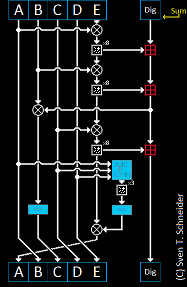
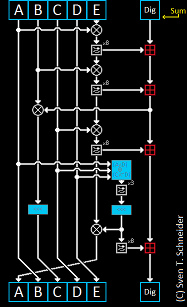
Advanced the SCMHA

Changed region(s): [[0.0267, 0.0, 1.0, 1.0], [0.9358, 0.669, 0.9893, 1.0]]

diff --git a/src/crypto/SCMHA.java b/src/crypto/SCMHA.java
@@ -20,7 +20,7 @@ public class SCMHA {
 	 * 
 	 * The basic principle of destroying the Pre-Image is based on John Horton Conway's "Game of Life" 
 	 * @author Sven T. Schneider
-	 * @version 0.2.1
+	 * @version 0.3
 	 */
 	
 	public final int size;
@@ -48,10 +48,13 @@ public class SCMHA {
 	//Counts the times GameOfLife was called
 	private int count_gol;
 	
+	//How many times GOL is played per Round
+	private final int play_gol_per_round;
+	
 	
 	//The digesting array, XORed with the bit-Arrays to produce the hash
 	private byte[] digest;
-	private final int digestBlockSize;
+	private final int digestSize;
 	
 	//digest() was called, the hash is final
 	private boolean isFinal;
@@ -66,7 +69,7 @@ public class SCMHA {
 	 * The getState()-Method return the current state of the Hash
 	 * During operation you can call reset() to reset the Algorithm to the start!
 	 * To finish operation, call digest(). This runs the cycle one final time and adds the destructors.
-	 * After that is done, the final Hash is given to you (or can be retrived by calling getstate()).
+	 * After that is done, the final Hash is given to you (or can be retrieved by calling getstate()).
 	 * @param s Bit-length of the Hash, use the Provided Variables:
 	 * 		SCMHA_512, SCMHA_768, SCMHA_1024
 	 * @throws NoSuchAlgorithmException if the choosen bit-Size is not compatible
@@ -82,7 +85,9 @@ public class SCMHA {
 		}else{
 			throw new NoSuchAlgorithmException("This algorithm dosn't exist!");
 		}
-		digestBlockSize = size/24;
+		digestSize = size/8;
+		
+		play_gol_per_round = size/16;
 		
 		reset();
 	}
@@ -97,9 +102,7 @@ public class SCMHA {
 		
 		u = new boolean[q][q];
 		
-		addToMainField(Random.generateSeed(256, 10), e);
-		
-		digest = new byte[size/8];
+		digest = new byte[digestSize];
 	}
 	
 	/**
@@ -124,6 +127,8 @@ public class SCMHA {
 			
 			//Pad Message
 			bToUse = paddIncomingMessage(bToUse);
+			
+			addToMainField(bToUse, e);
 			
 			//Perform 10 Rounds
 			for (int i = 0; i < 10; i++) {
@@ -163,29 +168,35 @@ public class SCMHA {
 		doWait();
 		xOrArrays(e, a);
 		count_posInRound = 2;
-		//Play Game of Life 8.times
-		playGOLwithE(8);
+		//Play Game of Life
+		playGOLwithE(play_gol_per_round/4);
 		
 		//2nd Step: XOR E with B
 		count_posInRound = 3;
 		doWait();
 		xOrArrays(e, b);
 		count_posInRound = 4;
-		//Play Game of Life 8.times
-		playGOLwithE(8);
+		//Play Game of Life
+		playGOLwithE(play_gol_per_round/4);
 		
 		//3rd XOR current Digesting-Array-Part with B
 		count_posInRound = 5;
 		doWait();
-		//TODO
+		//Create an Array to add...
+		byte[] digRMA = new byte[q*q/8+1];
+		for (int i = 0; i < digRMA.length; i++) {
+			digRMA[i] = digest[position_digest(-i-2)];
+		}
+		//And add it to B
+		addToMainField(digRMA, b);
 		
 		//4th Step: XOR E with C
 		count_posInRound = 6;
 		doWait();
 		xOrArrays(e, c);
 		count_posInRound = 7;
-		//Play Game of Life 8.times
-		playGOLwithE(8);
+		//Play Game of Life
+		playGOLwithE(play_gol_per_round/4);
 		
 		//5th Step: generate U
 		count_posInRound = 8;
@@ -209,10 +220,18 @@ public class SCMHA {
 		doWait();
 		xOrArrays(e, u);
 		
-		//9th Step: Fill Digesting-Array with U ---TODO add to flowchat
+		//9th Step: Fill Digesting-Array with U
 		count_posInRound = 12;
-		doWait();
-		//TODO
+		//Same as playGOLwithE() but with u
+		for (int i = 0; i < play_gol_per_round/4; i++) {
+			doWait();
+			
+			u = playOneRound(canDoConway(u), u);
+			
+			addLineToDigest(u);
+			
+			count_gol++;
+		}
 		
 		//10th Step: Move Arrays
 		count_posInRound = 13;
@@ -235,11 +254,48 @@ public class SCMHA {
 			e = playOneRound(canDoConway(e), e);
 			
 			//Adds psudo random Line to Digesting-Array
-			//TODO
+			addLineToDigest(e);
 			
 			//Increment counter
 			count_gol++;
 		}
+	}
+	
+	/**
+	 * Takes a Line of the Array and adds it to the digesting array (mod 0xffff).
+	 * This is the "red +" operator in the Flowchart
+	 * @param b
+	 */
+	private void addLineToDigest(boolean[][] b){
+		int t = bitLine(position_ArrayToDigestX(), position_ArrayToDigestY(), b);
+		int u = ((digest[position_digest(0)] & 0xff) << 8) | ((digest[position_digest(1)] & 0xff));
+		
+		t = (t+u)%0xffff;
+		
+		digest[position_digest(0)] = (byte)(t & 0xff);
+		digest[position_digest(1)] = (byte)((t >> 8) & 0xff);
+	}
+
+	////////////////////////////////////////////////////////////////////////////////////////////
+	//Position Methods
+	////////////////////////////////////////////////////////////////////////////////////////////
+	
+	//Get the Current X-Position for the bitLine-Method in addToDigest
+	private int position_ArrayToDigestX(){
+		return sum%q;
+	}
+	
+	//Get the Current Y-Position for the bitLine-Method in addToDigest
+	private int position_ArrayToDigestY(){
+		return (count_gol + count_gol*q/3 + sum)%q;
+	}
+	
+	//Returns the current starting position in the Digesting-Array
+	private int position_digest(int add){
+		int r = count_gol*2+sum*count_roundsDone+add;
+		if(r<0)
+			r+=digestSize;
+		return r%digestSize;
 	}
 	
 	////////////////////////////////////////////////////////////////////////////////////////////
@@ -427,7 +483,7 @@ public class SCMHA {
 				if(x>=q){
 					y++;
 					x = 0;
-					if(y>=q)y = 0;
+					if(y>=q)return;
 				}
 			}
 		}
@@ -447,6 +503,24 @@ public class SCMHA {
 		}
 		return z;
 	}
+	
+	//takes the int in the line
+	private int bitLine(int x, int y, boolean[][] array){
+		int r = 0;
+		int t = 1;
+		for (int i = 0; i < 16; i++) {
+			if(array[x][y])
+				r+=t;
+			t*=2;
+			y++;
+			if(y>=q){
+				y = 0;
+				x++;
+				if(x>=q)x=0;
+			}
+		}
+		return r;
+	}	
 	
 	////////////////////////////////////////////////////////////////////////////////////////////
 	//For Debug only:
@@ -491,7 +565,7 @@ public class SCMHA {
 	}
 	
 	/**
-	 * Paints a visualisation of the Algorithms current state
+	 * Paints a visualization of the Algorithms current state
 	 */
 	public BufferedImage testPaint(int k, Color c, BufferedImage i){
 		BufferedImage ima = new BufferedImage(q*k*6+70, q*k+400, BufferedImage.TYPE_INT_ARGB);
@@ -502,12 +576,25 @@ public class SCMHA {
 		drawArray(g, k*q*2, k, c, this.c);
 		drawArray(g, k*q*3, k, c, d);
 		drawArray(g, k*q*4, k, c, e);
-		drawArray(g, k*q*5+10, k, c, u);
+		drawArray(g, k*q*5+20, k, c, u);
 		
 		g.drawImage(i, 0, q*k+10, null);
 		g.setColor(Color.red);
 		g.drawRect(0, q*k+10+20*count_posInRound, 300, 20);
 		
+		if(conwayWasPlayed)
+			g.drawString("C", 250, q*k+25+20*count_posInRound);
+		else
+			g.drawString(" N", 250, q*k+25+20*count_posInRound);
+		
+		g.setColor(Color.white);
+		int x = position_ArrayToDigestX()*k;
+		int y = position_ArrayToDigestY()*k;
+		if(count_posInRound<8)
+			x+=4*q*k;
+		else
+			x+=5*q*k+20;
+		g.drawLine(x, y+k/2, x+30, y+k/2);
 		
 		return ima;
 	}

diff --git a/src/gui/TestSCMHA.java b/src/gui/TestSCMHA.java
@@ -186,7 +186,7 @@ public class TestSCMHA extends AbstractMenu{
 		ddm.addSubButton(new DropDownButton(100, 20, "SCMHA_1024"), 0);
 		ddm.addSubButton(new DropDownButton(100, 20, "SCMHA_768"), 1);
 		ddm.addSubButton(new DropDownButton(100, 20, "SCMHA_512"), 2);
-		ddm.setCurrentlyActiv(4);
+		ddm.setCurrentlyActiv(2);
 		
 		cbx = new CheckBox(420,30,"res/ima/cli/cbx/CB", 100) {
 			@Override
